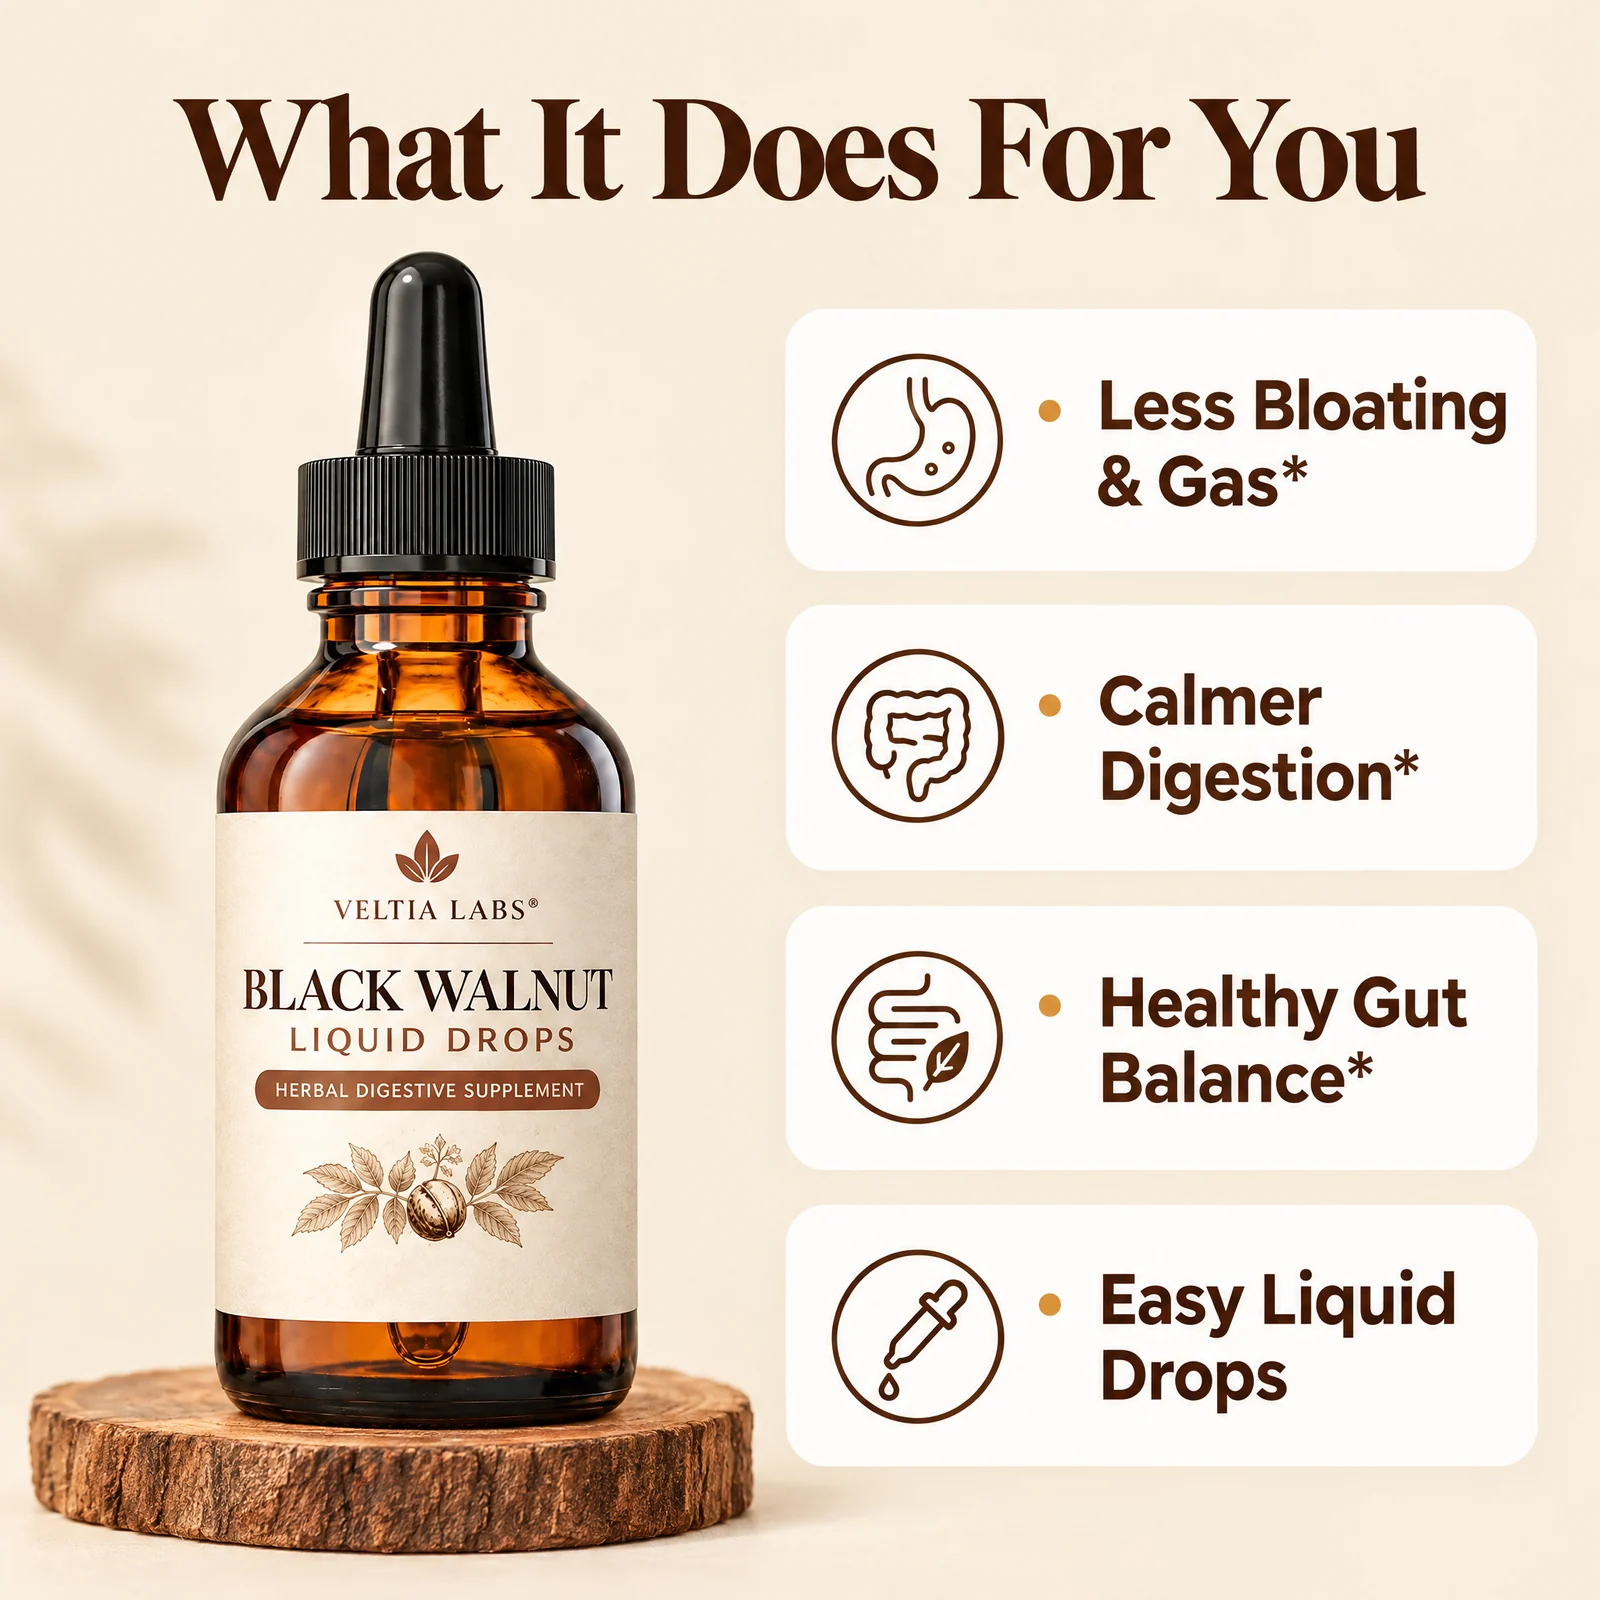
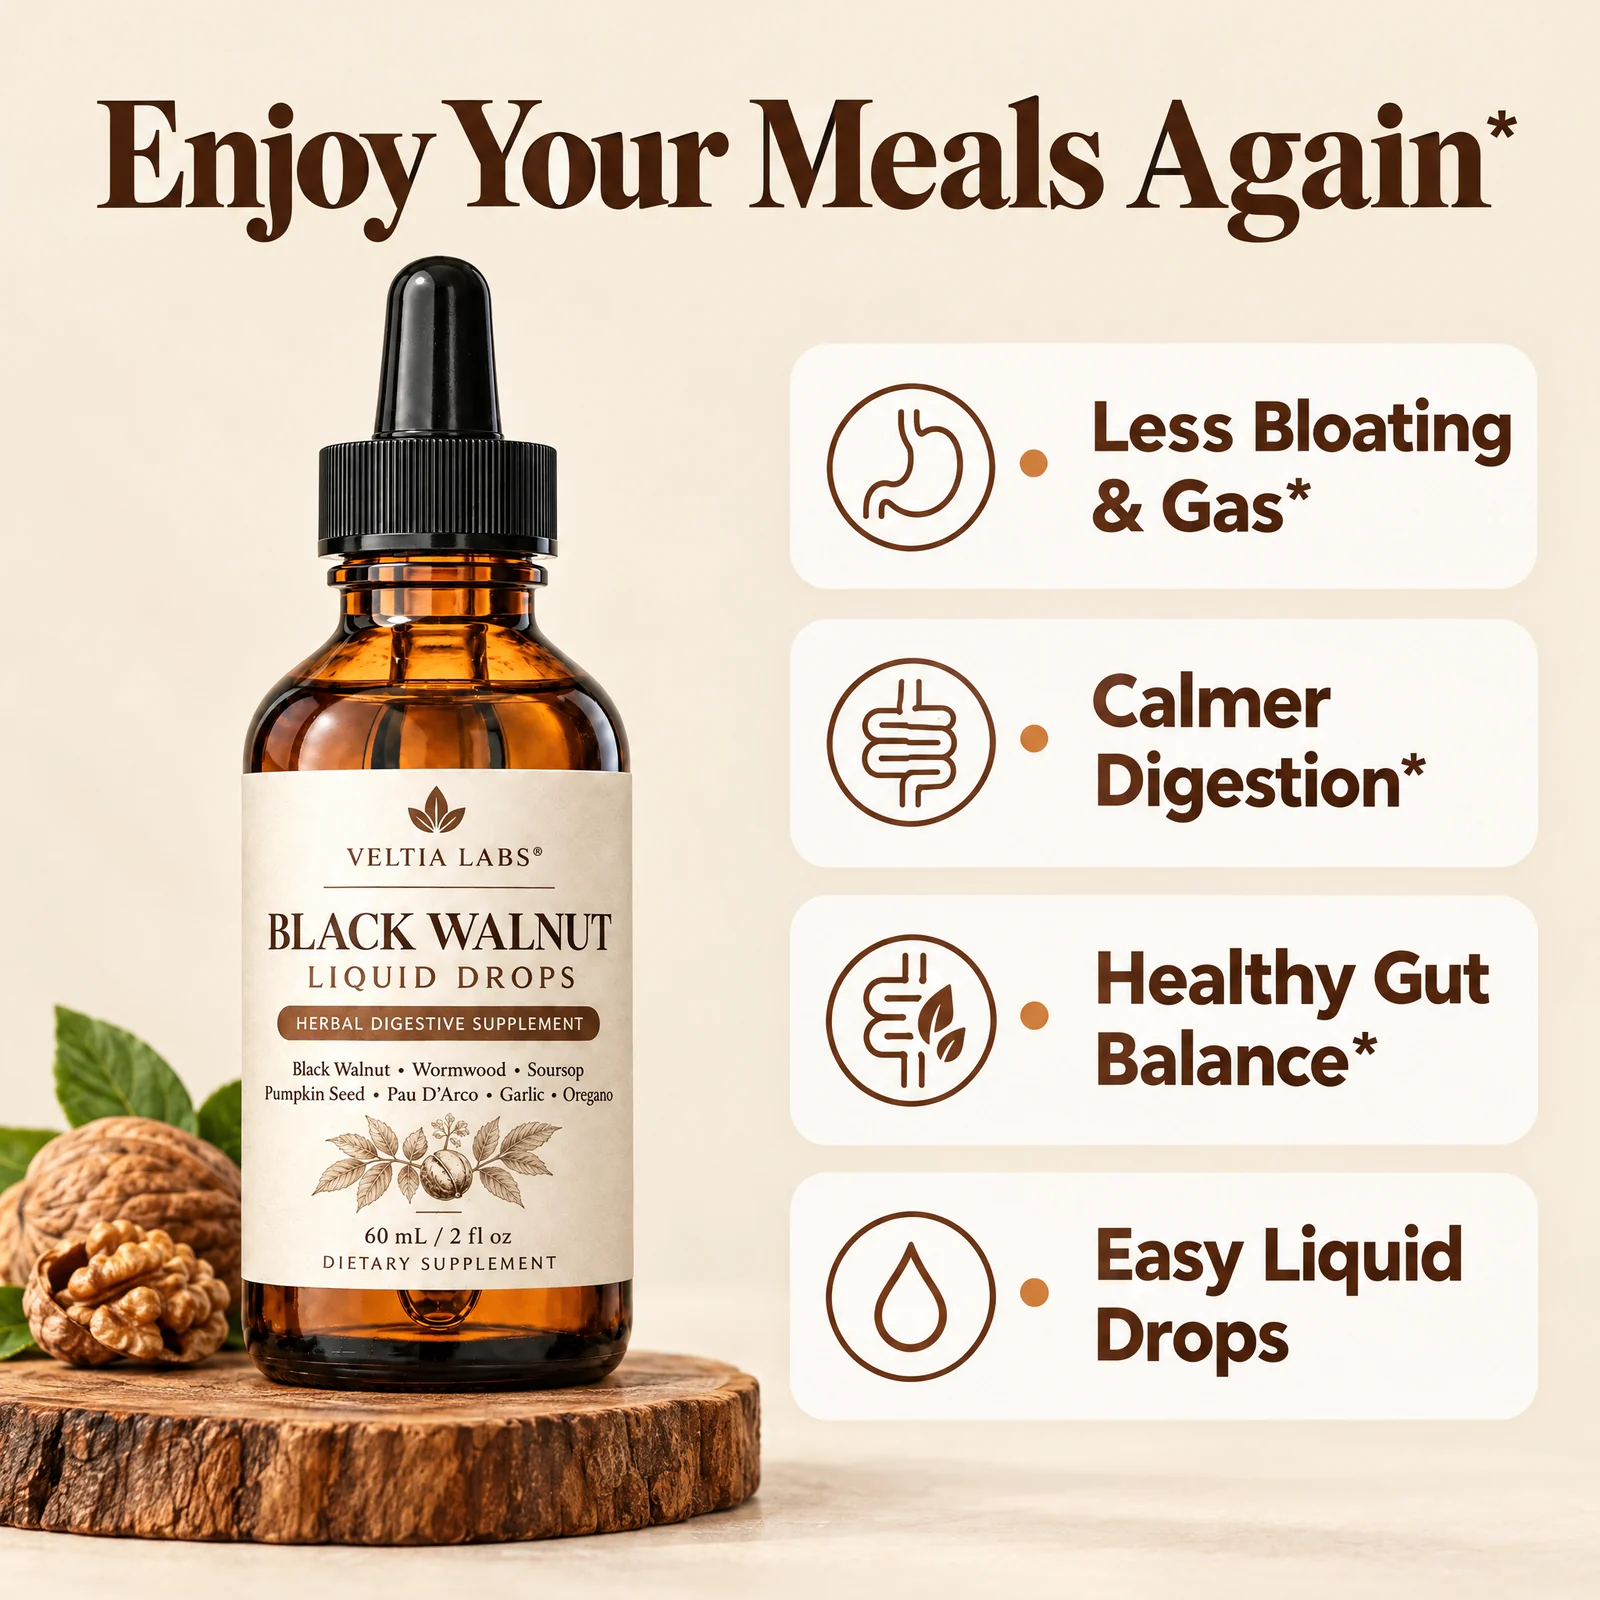
Carousel: stronger benefits headline, person in testimonial
Benefits image headline is now 'Enjoy Your Meals Again*' (ties to the
dinner stories in the reviews). The testimonial image now shows a
woman at a dinner table with Rachel T.'s quote; she's an AI model,
so the image carries a small 'Model shown' note.

Claude-Session: https://claude.ai/code/session_013qFJ6yuUf6HUAYj3topTHP

diff --git a/README.md b/README.md
@@ -96,7 +96,7 @@ Everything in `images/` except `veltia-bottle.webp` (your original photo) was ge
 
 | File | Where it goes |
 | --- | --- |
-| `carousel-1-hero.webp` … `carousel-8-guarantee.webp` | Product media, in number order (hero, benefits, Shield Breaker method, how to take it, timeline, vs. others, testimonial, guarantee), followed by `bundle-3.webp` and `bundle-5.webp`. Made with GPT Image 2.5 on Higgsfield from `veltia-bottle.webp`; the testimonial quote is Rachel T.'s own words. |
+| `carousel-1-hero.webp` … `carousel-8-guarantee.webp` | Product media, in number order (hero, benefits, Shield Breaker method, how to take it, timeline, vs. others, testimonial, guarantee), followed by `bundle-3.webp` and `bundle-5.webp`. Made with GPT Image 2.5 on Higgsfield from `veltia-bottle.webp`; the testimonial quote is Rachel T.'s own words; the woman pictured is an AI model, labelled "Model shown" in the image. Swap in a real photo of Rachel if she agrees. |
 | `veltia-bottle.webp`, `product-lifestyle.webp`, `product-method.webp`, `product-flatlay.webp`, `product-dropper.webp`, `bundle-3.webp`, `bundle-5.webp` | Product media in Shopify admin, in that order |
 | `veltia-bottle.webp` / `bundle-3.webp` / `bundle-5.webp` | *Bundle picker → Bundle 1 / 2 / 3 image* |
 | `gift-bloat-guide.webp`, `gift-priority.webp` | *Free gifts → Gift 2 / Gift 3 image* |
